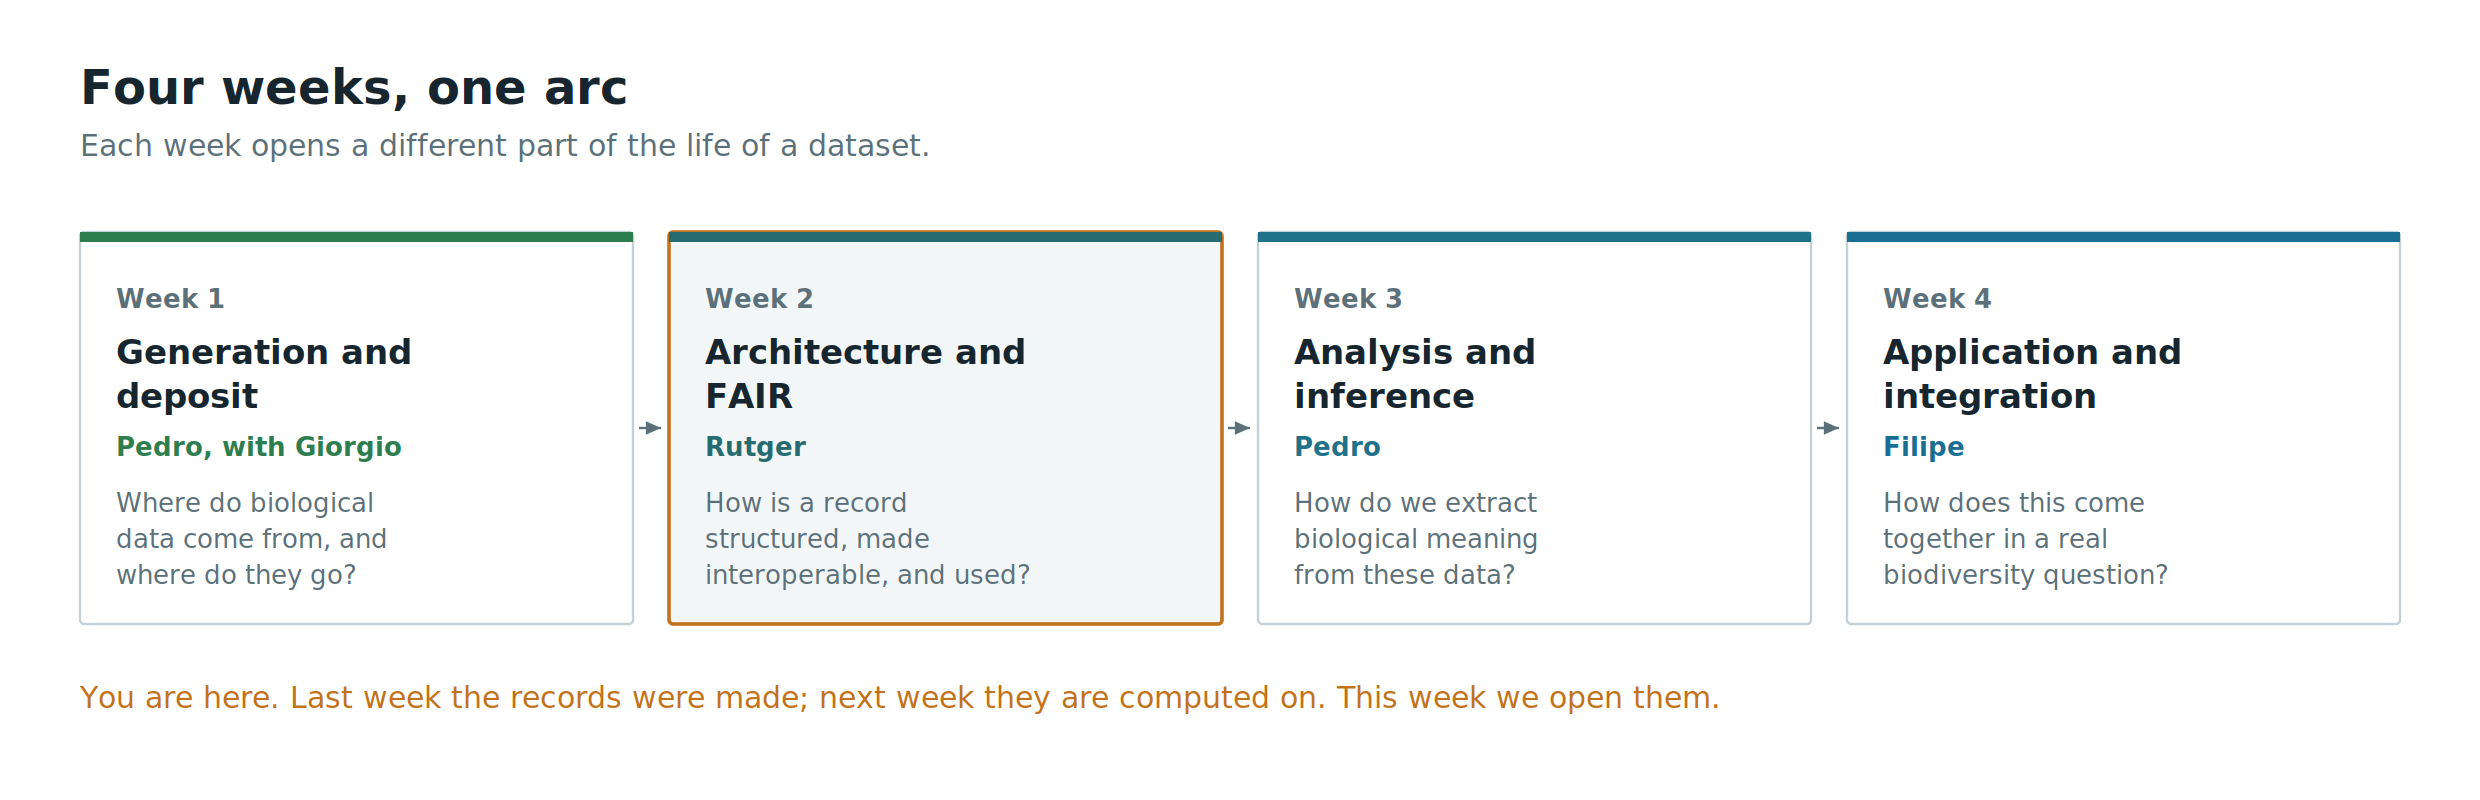
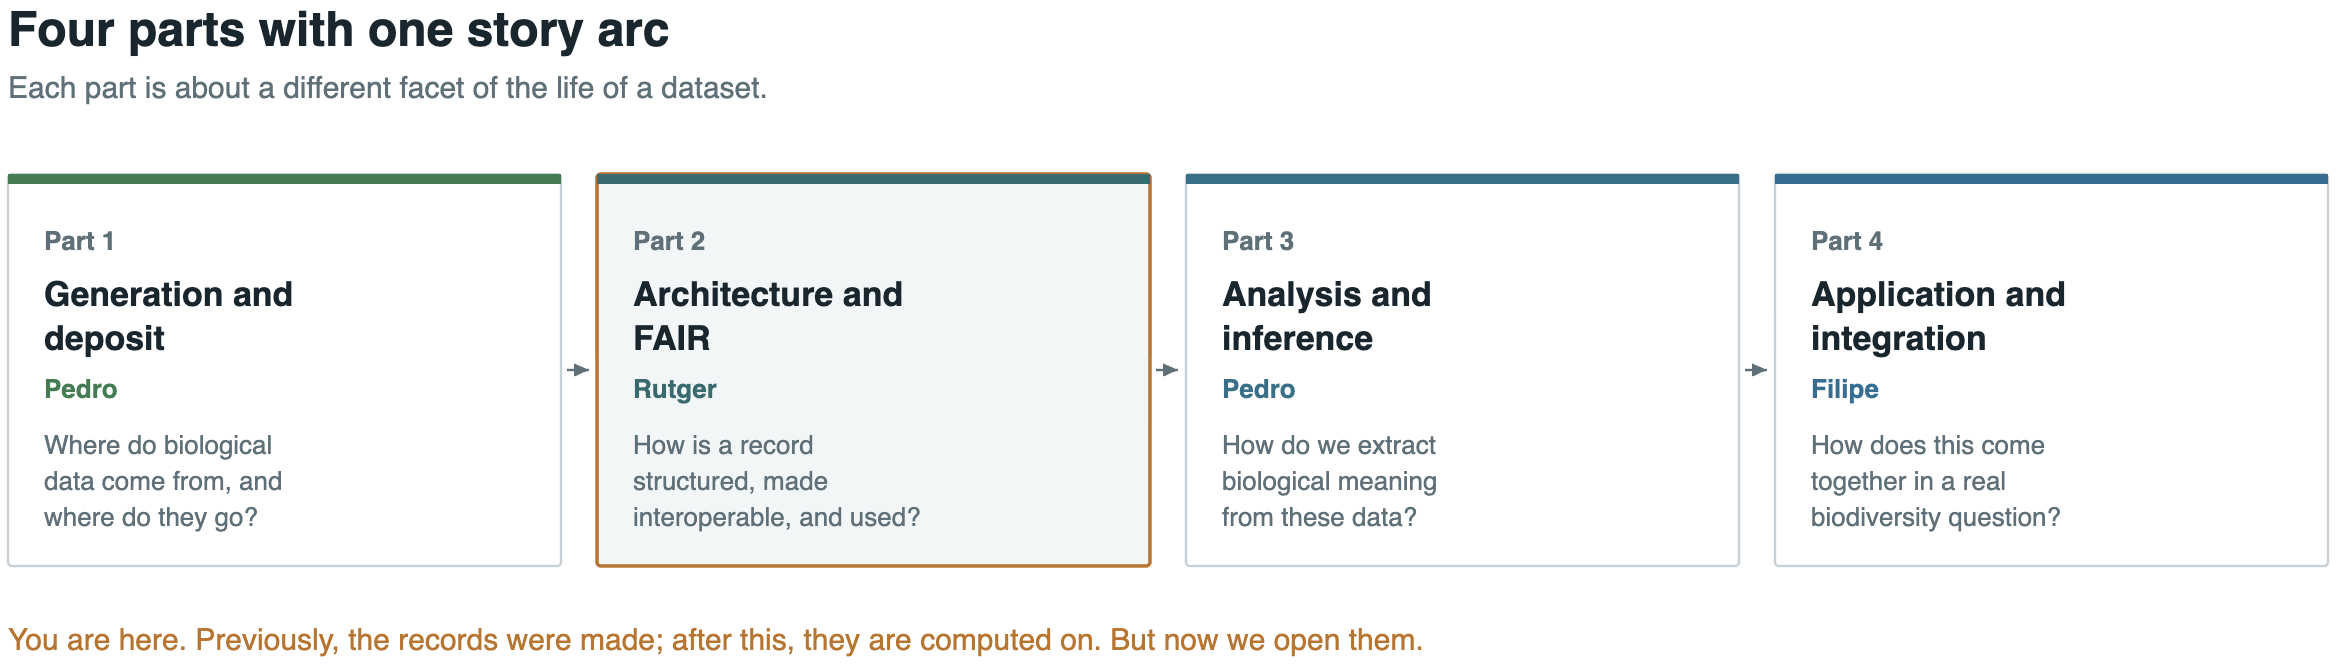
created google slides version

diff --git a/doc/d1/lecture2.md b/doc/d1/lecture2.md
@@ -73,8 +73,10 @@ not collect.
 Programmatic access
 -------------------
 
-Every resource we use today has an API, which means every retrieval you do by clicking can be done
-reproducibly instead.
+![](lecture2/api.png)
+
+Every resource we discuss today has an API, which means every retrieval you do by clicking 
+can be done reproducibly instead.
 
 ```bash
 # GBIF: occurrences of a genus, as JSON
@@ -95,6 +97,8 @@ of clicks is not.
 
 BOLD: three record types in one
 -------------------------------
+
+![](lecture2/dna-barcoding.png)
 
 [BOLD](https://portal.boldsystems.org/) is worth looking at structurally, because a single BOLD record
 binds together things that live in separate databases everywhere else:
@@ -133,6 +137,8 @@ are Filipe's territory in week 4, and they are the substance of your final integ
 
 A name is not an identifier
 ---------------------------
+
+![](lecture2/Cladosporium_cladosporioides.jpg)
 
 `Cladosporium cladosporioides` is a hypothesis, expressed in Latin, that may have been revised twice
 since the record was written.

diff --git a/doc/d1/lecture1.md b/doc/d1/lecture1.md
@@ -1,6 +1,8 @@
 Integrating data architecture into bioscience workflows: standards and best practices
 =====================================================================================
 
+This content is also available as a [slide deck](https://docs.google.com/presentation/d/1QJDnopogINN2C5omAbb3OnBrT-yUU6uT_L915wNBMbU/edit?usp=sharing)
+
 About me
 --------
 
